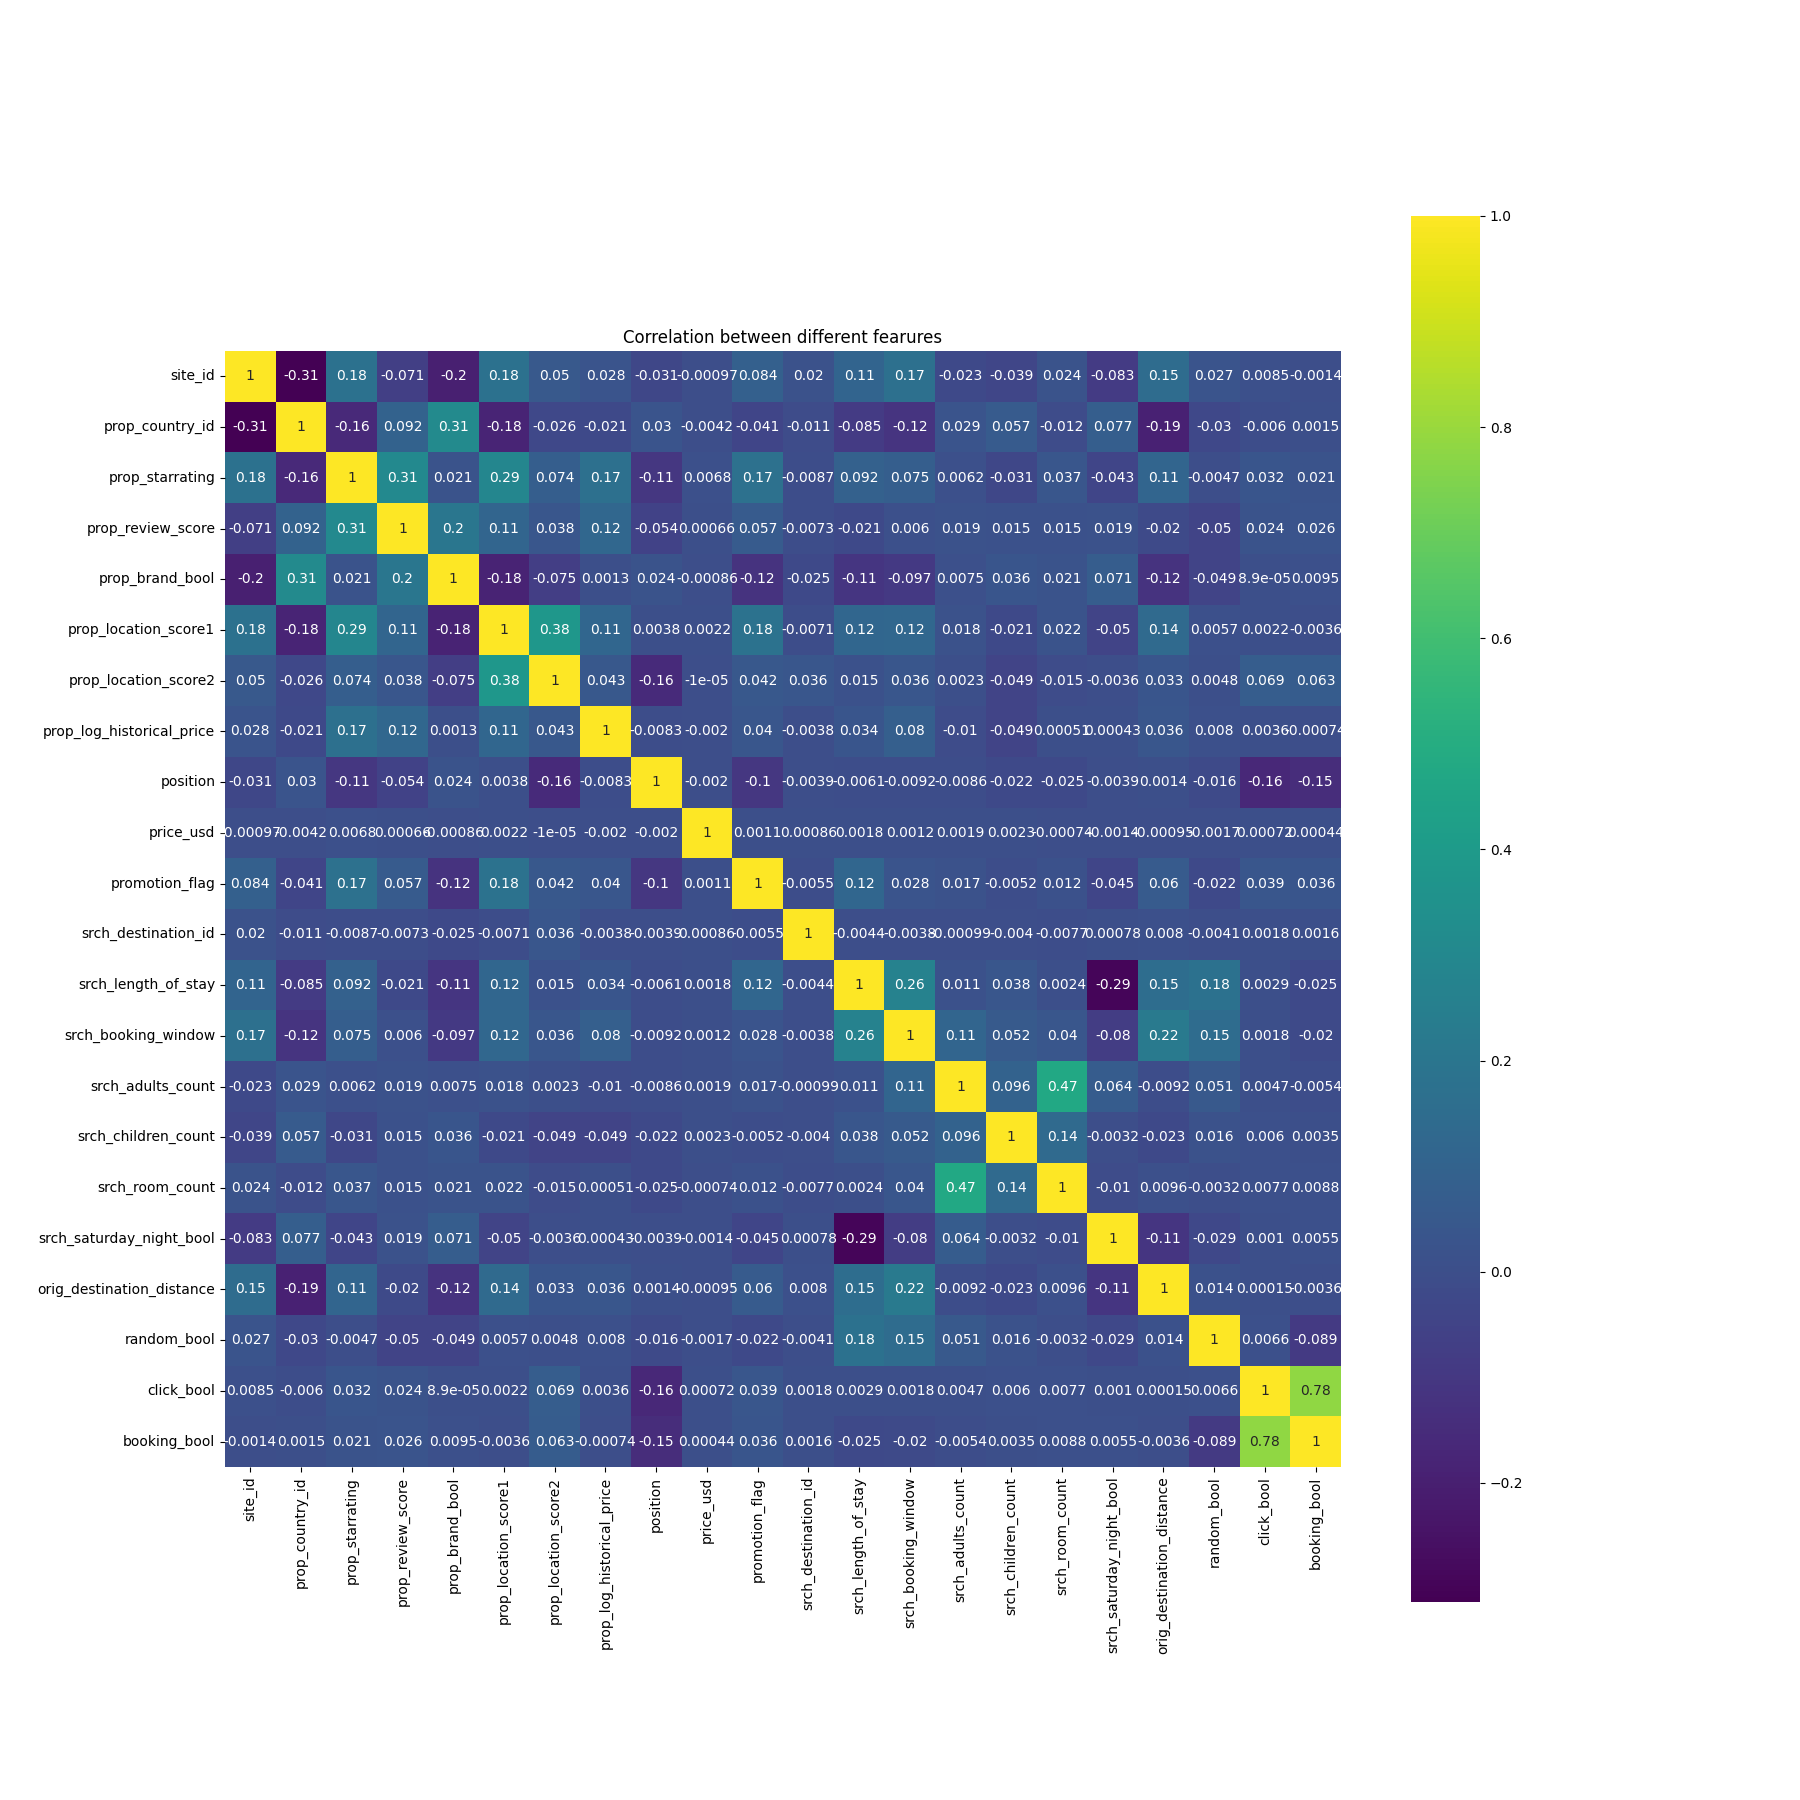
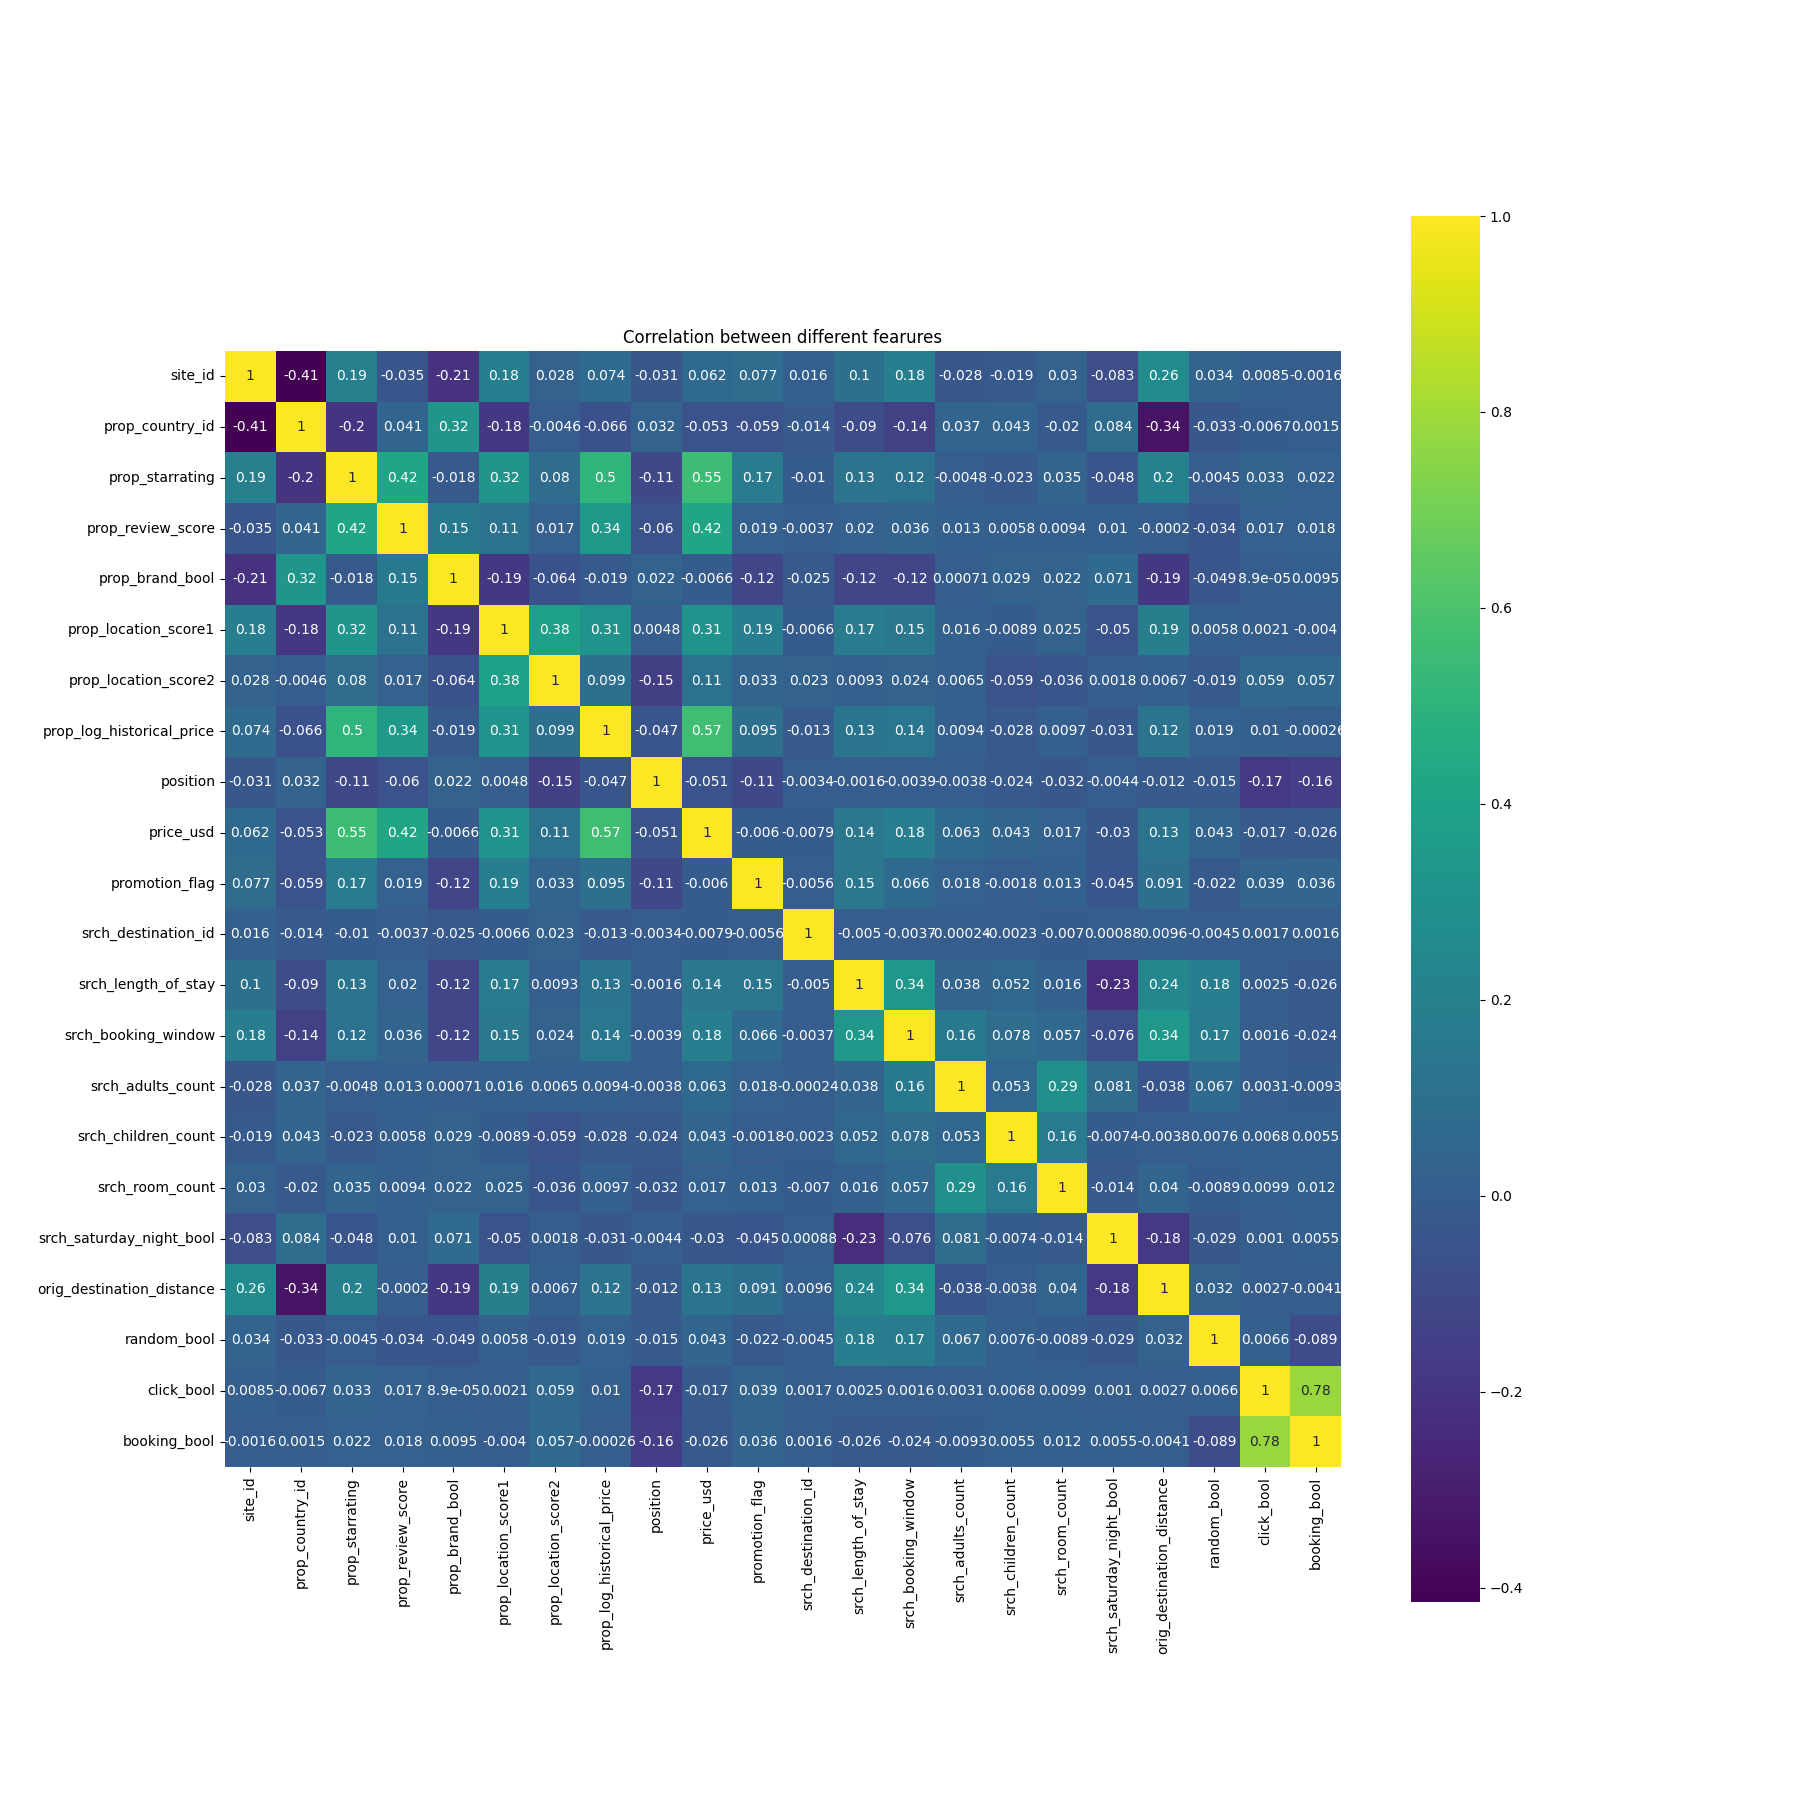
feat: added more information

diff --git a/DataMining2/ETL.py b/DataMining2/ETL.py
@@ -21,7 +21,9 @@ from sklearn import metrics
 
 ## Load data into data frame ##
 data = pd.read_csv("DataMining2/training_set_VU_DM.csv", index_col=0)
+test_data = pd.read_csv("DataMining2/test_set_VU_DM.csv", index_col=0)
 df = pd.DataFrame(data)
+df_test = pd.DataFrame(test_data)
 
 # # # Data summary ##
 # # Dataframe dimension
@@ -44,6 +46,8 @@ print(df.groupby('visitor_location_country_id').size().nlargest(5))
 The data dfes dollars as the go to currency and a lot of the hotel searches
 are in one country, out of the total 4958347 rows, 58.33% is one country
 which is very likely the dfA :).
+Maybe just using that part of the dataset would be better since undersampling/oversampling
+for the rest migh prove time consuming.
 """
 
 # # Remove all columns that n nan values above a certain threshold
@@ -79,7 +83,7 @@ print(df.isnull().sum())
 # Remove null values
 df["prop_review_score"].fillna((df["prop_review_score"].mean()), inplace=True)
 df["prop_location_score2"].fillna((df["prop_location_score2"].mean()), inplace=True)
-df['orig_destination_distance'].fillna((df['orig_destination_distance'].median()), inplace=True)
+df['orig_destination_distance'].fillna((df['orig_destination_distance'].mean()), inplace=True)
 
 print(df.isnull().sum())
 
@@ -116,23 +120,22 @@ print(df.isnull().sum())
 #             yticklabels=corr.columns.values)
 # plt.savefig("DataMining2/graphs/correlationMatrixSpearman.png")
 
-# Clean up at asile 3
+# # Clean up at asile 3
 # Remove duplicate data
 df = df.drop_duplicates()
 # Remove completly empty rows and columns
 df = df.dropna(how='all', axis='columns')
 df = df.dropna(how='all', axis='rows')
 
-# Save to CSV
-# df.to_csv('DataMining2/output/out.csv', index=False)
-
-# correlation = df.corr()
+# correlation = df.corr(method = 'spearman')
 # plt.figure(figsize=(18, 18))
 # sns.heatmap(correlation, vmax=1, square=True,annot=True,cmap='viridis')
 # plt.title('Correlation between different fearures')
 # file_name = f"DataMining2/graphs/graphHotelSummary/correlation.png"
 # plt.savefig(file_name)
 
+
+# # Undersampling
 # Get all clicked on hotels
 click_indices = df[df.click_bool == 1].index
 # Randomize selection between them
@@ -141,27 +144,29 @@ random_indices = np.random.choice(click_indices, len(df.loc[df.click_bool == 1])
 click_sample = df.loc[random_indices]
 
 not_click = df[df.click_bool == 0].index
+# Get random rows with click_bool=0 and make a vector of size sum click_bool, or len(click_indices)
 random_indices = np.random.choice(not_click, sum(df['click_bool']), replace=False)
 not_click_sample = df.loc[random_indices]
 
 df_new = pd.concat([not_click_sample, click_sample], axis=0)
 
-print("Percentage of not click impressions: ", len(df_new[df_new.click_bool == 0])/len(df_new))
-print("Percentage of click impression: ", len(df_new[df_new.click_bool == 1])/len(df_new))
-print("Total number of records in resampled data: ", len(df_new))
+# The data is split now 50/50 between clicked and not clicked
+print("Number of rows", len(df_new))
+
+# Save to CSV
+df_new.to_csv('DataMining2/output/out2.csv', index=False)
 
 mms = MinMaxScaler()
 df_new[['price_usd','orig_destination_distance']] = mms.fit_transform(df_new[['price_usd','orig_destination_distance']])
 
-Y1 = df_new['click_bool']
-Y2 = df_new['booking_bool']
+Y = df_new['click_bool']
 df_new = df_new.drop(columns=['click_bool', 'booking_bool'], axis=1)
 X = df_new
 
 # Split the data into features (X) and target (y)
 # X = df.drop('click_bool', axis=1)
 # y = df['click_bool']
-X_train,X_test, y_train,y_test = train_test_split(X, Y1, test_size=0.3, random_state=1)
+X_train,X_test, y_train,y_test = train_test_split(X, Y, test_size=0.3, random_state=1)
 
 # # Featurer selection dfing ANOVA
 # fs = SelectKBest(score_func=f_classif, k=10)
@@ -192,6 +197,9 @@ X_train,X_test, y_train,y_test = train_test_split(X, Y1, test_size=0.3, random_s
 # print(df['click_bool'].value_counts())
 rf =RandomForestClassifier(n_estimators=51,min_samples_leaf=5,min_samples_split=3)
 
+
+# test_data_X = test_data.drop(columns=['click_bool'], axis=1)
+# test_data_y = test_data['click_bool']
 
 def print_evaluation_metrics(trained_model,trained_model_name,X_test,y_test):
     print('--------- Model : ', trained_model_name, ' ---------------\n')
